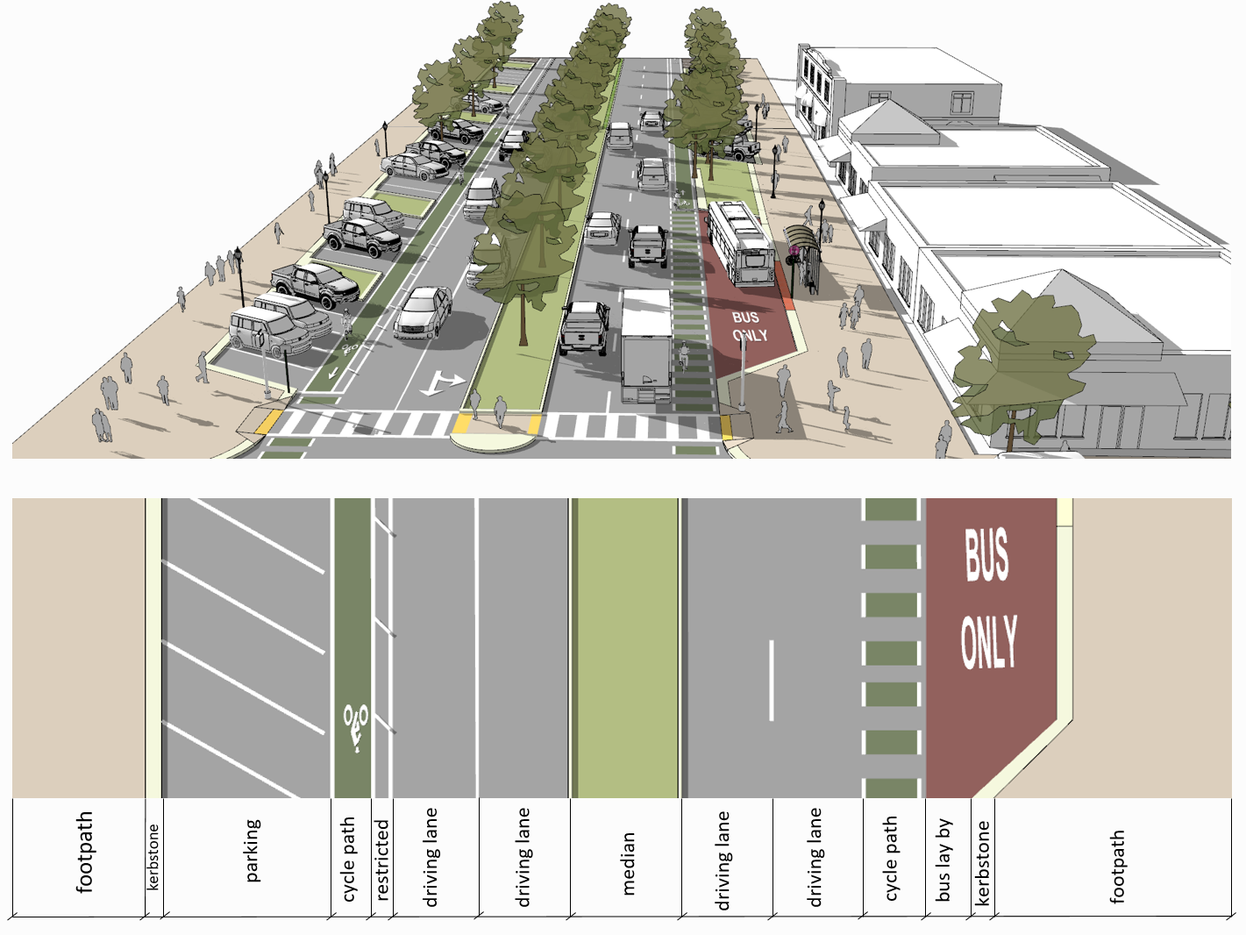
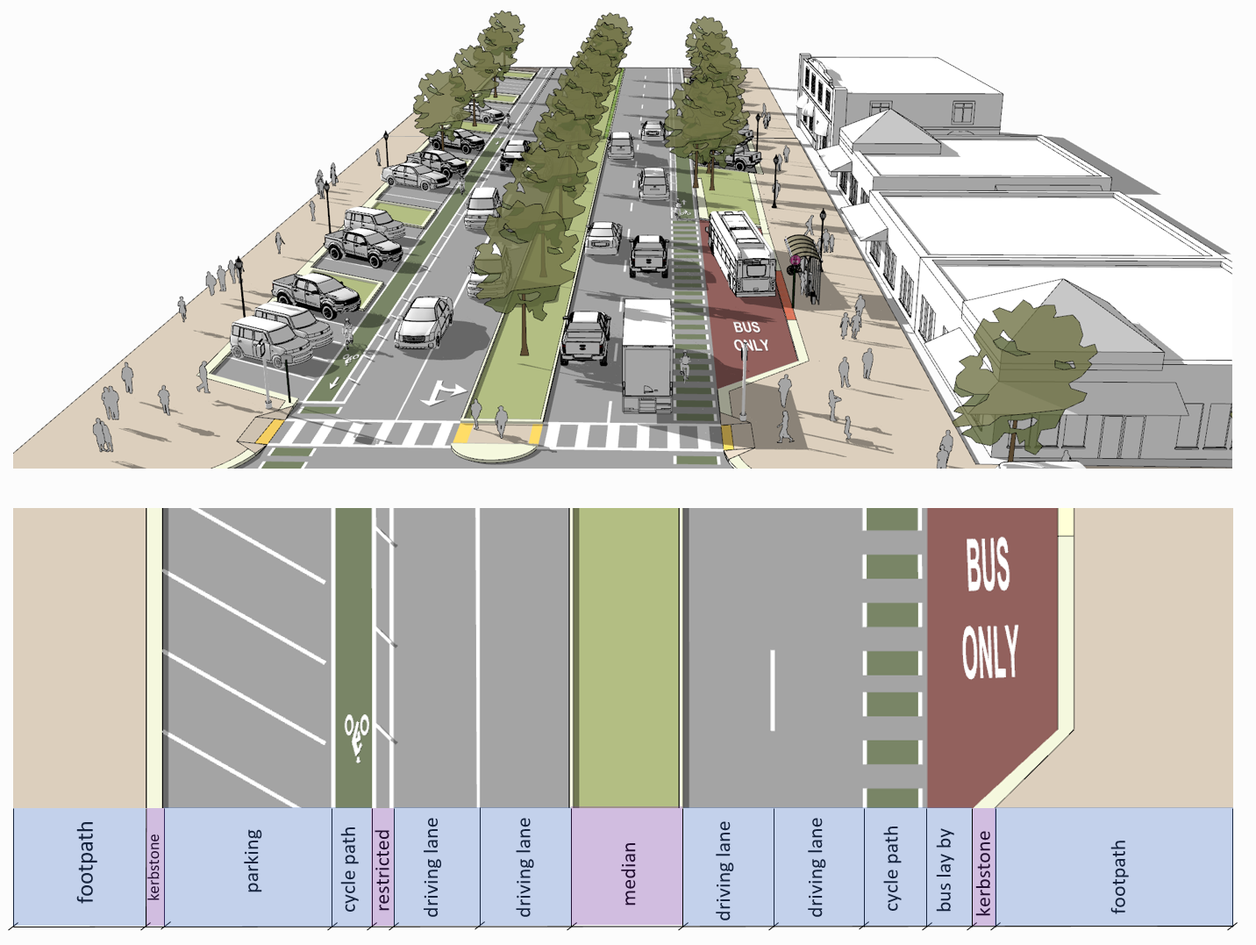
Deploying to gh-pages from @ tum-gis/road2citygml3@df8907f2ebff1a7bcd9f1d953b1b05b7b3e30a28 🚀

diff --git a/searchindex.js b/searchindex.js
@@ -1,1 +1,1 @@
-Search.setIndex({"docnames": ["contact and citation/contactandcitation", "guideline/guideline", "index"], "filenames": ["contact and citation/contactandcitation.rst", "guideline/guideline.rst", "index.rst"], "titles": ["<em class=\"fa fa-comments\"></em> Comment", "<span class=\"section-number\">1. </span>Introduction", "Road2CityGML3 - version 1.0"], "terms": {"do": [0, 1], "you": 0, "have": [0, 1], "suggest": 0, "improv": [0, 1], "thi": [0, 1], "document": [0, 1], "creat": [0, 1], "an": [0, 1], "issu": 0, "from": [0, 1], "correspond": [0, 1], "github": [0, 1], "repositori": [0, 1], "If": 0, "find": [0, 1], "help": 0, "your": 0, "work": [0, 1], "consid": [0, 1], "cite": 0, "follow": [0, 1], "manual": [0, 1], "beil_road2citygml3_2022": 0, "author": 0, "beil": [0, 1], "christof": 0, "kolb": [0, 1], "thoma": 0, "h": [0, 1], "titl": 0, "road2citygml3": 0, "url": 0, "http": [0, 1], "com": 0, "tum": 0, "gi": 0, "year": 0, "2022": 0, "The": [0, 2], "relat": [0, 2], "public": [0, 1], "explain": [0, 1], "concept": [0, 2], "citygml": [0, 2], "3": [0, 2], "0": 0, "transport": [0, 2], "modul": [0, 2], "articl": 0, "beil2020": 0, "ruhdorf": [0, 1], "roland": 0, "coduro": [0, 1], "theresa": 0, "detail": [0, 2], "streetspac": [0, 1, 2], "model": [0, 2], "multipl": [0, 2], "applic": [0, 1], "discuss": [0, 1], "propos": [0, 1], "journal": [0, 1], "ispr": [0, 1], "intern": [0, 1, 2], "geo": [0, 1], "inform": [0, 1], "2020": [0, 1], "volum": 0, "9": [0, 1], "number": [0, 1], "10": [0, 1], "page": [0, 1], "603": [0, 1], "doi": [0, 1], "org": [0, 1], "3390": [0, 1], "ijgi9100603": [0, 1], "question": 0, "organ": 0, "technic": 0, "univers": [0, 1], "munich": [0, 1], "chair": 0, "geoinformat": 0, "arcisstr": 0, "21": 0, "80333": 0, "email": 0, "de": 0, "citi": [1, 2], "geographi": [1, 2], "markup": [1, 2], "languag": [1, 2], "i": 1, "ogc": [1, 2], "standard": [1, 2], "exchang": 1, "virtual": 1, "landscap": 1, "1": 1, "2": 1, "ar": 1, "avail": 1, "countri": 1, "gather": 1, "method": 1, "mobil": 1, "map": 1, "emerg": 1, "urban": 1, "digit": 1, "twin": 1, "begin": 1, "shift": 1, "focu": 1, "toward": 1, "infrastructur": 1, "sever": 1, "new": 1, "york": 1, "melbourn": 1, "singapor": 1, "usual": 1, "arcgi": 1, "qgi": 1, "environ": 1, "howev": 1, "often": 1, "differ": 1, "common": 1, "framework": 1, "allow": 1, "immedi": 1, "same": 1, "tool": 1, "while": 1, "gdf": 1, "opendr": 1, "linear": 1, "graph": 1, "base": 1, "parametr": 1, "polygon": 1, "well": 1, "volumetr": 1, "explicit": 1, "geometri": 1, "consist": 1, "includ": 1, "furnitur": 1, "version": 1, "provid": 1, "revis": 1, "extend": 1, "present": 1, "context": 1, "conceptu": 1, "open": 1, "geospati": 1, "consortium": 1, "defin": 1, "central": 1, "element": 1, "traffic": 1, "appli": 1, "all": 1, "e": 1, "g": 1, "part": 1, "drive": 1, "lane": 1, "pedestrian": 1, "sidewalk": 1, "bike": 1, "etc": 1, "variou": 1, "point": 1, "cloud": 1, "given": 1, "surfac": 1, "us": [1, 2], "referenc": 1, "gml": 1, "encod": 1, "most": 1, "dataset": 1, "4": 1, "In": 1, "addit": 1, "some": 1, "record": 1, "can": 1, "seen": 1, "extens": 1, "user": 1, "guid": 1, "specif": 1, "municip": 1, "compani": 1, "agenc": 1, "stakehold": 1, "interest": 1, "plan": 1, "manag": 1, "automot": 1, "environment": 1, "simul": 1, "analys": 1, "topograph": 1, "list": 1, "kolbe2021": 1, "t": 1, "kutzner": 1, "smyth": 1, "c": 1, "": 1, "nagel": 1, "roensdorf": 1, "heazel": 1, "2021": 1, "20": 1, "010": 1, "doc": 1, "html": 1, "beil2020a": 1, "r": 1, "beil2020b": 1, "combin": 1, "its": 1, "implement": 1, "int": 1, "arch": 1, "photogramm": 1, "remot": 1, "sen": 1, "spat": 1, "inf": 1, "sci": 1, "vi": 1, "w1": 1, "29": 1, "36": 1, "5194": 1, "annal": 1, "kutzner2020": 1, "chaturvedi": 1, "k": 1, "up": 1, "pfg": 1, "photogrammetri": 1, "sens": 1, "geoinform": 1, "scienc": 1, "88": 1, "43": 1, "61": 1, "1007": 1, "s41064": 1, "020": 1, "00095": 1, "z": 1, "schwab2020": 1, "schwab": 1, "b": 1, "spatio": 1, "vehicl": 1, "test": 1, "autom": 1, "sustain": 1, "12": 1, "3799": 1, "su12093799": 1, "boersma2019": 1, "boersma": 1, "f": 1, "2019": 1, "master": 1, "thesi": 1, "delft": 1, "technologi": 1, "resolv": 1, "tudelft": 1, "nl": 1, "uuid": 1, "ebfc48f8": 1, "4704": 1, "47d3": 1, "9654": 1, "cd00c765e0af": 1, "tamminga2019": 1, "tamminga": 1, "A": 1, "novel": 1, "design": 1, "phd": 1, "4233": 1, "35d2e152": 1, "0cfe": 1, "439e": 1, "a276": 1, "da4a69b11acd": 1, "labetski2018": 1, "labetski": 1, "van": 1, "gerwen": 1, "ledoux": 1, "stoter": 1, "j": 1, "2018": 1, "xlii": 1, "w10": 1, "89": 1, "96": 1, "archiv": 1, "beil2017": 1, "2017": 1, "iv": 1, "w5": 1, "16": 1, "basic": 1, "real": 1, "world": 1, "sourc": 1, "convert": 1, "tr\u00e5n": 1, "read": 1, "network": 1, "format": 1, "transform": 1, "them": 1, "more": 1, "guidelin": [1, 2], "under": 1, "creativ": 1, "cc": 1, "BY": 1, "free": 1, "No": 1, "warranti": 1, "guarante": 1, "correct": 1, "complet": 1, "appropri": 1, "ani": 1, "case": 1, "held": 1, "liabl": 1, "damag": 1, "caus": 1, "directli": 1, "indirectli": 1, "softwar": 1, "sinc": 1, "here": 1, "ha": 1, "been": 1, "deriv": 1, "origin": 1, "term": 1, "condit": 1, "too": 1, "aerial": 1, "imageri": 1, "import": 1, "summar": 1, "For": 1, "explan": 1, "pleas": 1, "modular": 1, "uml": 1, "diagram": 1, "shown": 1, "figur": 1, "core": 1, "repres": 1, "geograph": 1, "featur": 1, "iso": 1, "19109": 1, "hierarch": 1, "like": 1, "subclass": 1, "higher": 1, "segment": 1, "which": 1, "further": 1, "again": 1, "bound": 1, "ground": 1, "clear": 1, "distinct": 1, "spatial": 1, "introduc": 1, "onto": 1, "entiti": 1, "extent": 1, "waterbodi": 1, "room": 1, "areal": 1, "delimit": 1, "connect": 1, "featuretyp": 1, "abstract": 1, "abstracttransportationspac": 1, "just": 1, "also": 1, "abov": 1, "respect": 1, "chapter": 1, "decomposit": 1, "area": 1, "entir": 1, "width": 1, "singl": 1, "per": 1, "mean": 1, "bicycl": 1, "path": 1, "bai": 1, "separ": 1, "These": 1, "extrud": 1, "centerlin": 1, "line": 1, "order": 1, "distinguish": 1, "uniqu": 1, "identifi": 1, "id": 1, "should": 1, "contain": 1, "name": 1, "thei": 1, "belong": 1, "achiev": 1, "implicitli": 1, "due": 1, "file": 1, "indic": 1, "materi": 1, "special": 1, "sig3d": 1, "transportationcomplex": 1, "transfer": 1, "tabl": 1, "explicitli": 1, "describ": 1, "footpath": 1, "cycl": 1, "mode": 1, "car": 1, "tram": 1, "citygml_usag": 1, "text": 1, "code": 1, "truck": 1, "bu": 1, "taxi": 1, "train": 1, "5": 1, "6": 1, "motorcycl": 1, "7": 1, "8": 1, "15": 1, "citygml_funct": 1, "driving_lan": 1, "cyclepath": 1, "foot": 1, "parking_lay_bi": 1, "rail": 1, "rail_road_combin": 1, "crosswalk": 1, "bus_lay_bi": 1, "32": 1, "33": 1, "emergency_lan": 1, "road_work": 1, "37": 1, "unknown": 1, "9999": 1, "shoulder": 1, "1010": 1, "green_area": 1, "1020": 1, "kerbston": 1, "1220": 1, "restrict": 1, "1240": 1, "traffic_island": 1, "1300": 1, "raised_median": 1, "1400": 1, "low": 1, "1500": 1, "border": 1, "1600": 1, "specifi": 1, "pavement": 1, "citygml_surfacemateri": 1, "asphalt": 1, "concret": 1, "cobbleston": 1, "gravel": 1, "soil": 1, "sand": 1, "grass": 1, "possibl": 1, "meter": 1, "depend": 1, "intend": 1, "rate": 1, "maximum": 1, "speed": 1, "properti": 1, "19107": 1, "dimension": 1, "make": 1, "kind": 1, "aggreg": 1, "multipoint": 1, "multicurv": 1, "multisurfac": 1, "multisolid": 1, "composit": 1, "compositecurv": 1, "compositesurfac": 1, "compositesolid": 1, "shape": 1, "so": 1, "call": 1, "rep": 1, "support": 1, "either": 1, "inlin": 1, "extern": 1, "la": 1, "laz": 1, "nearli": 1, "solid": 1, "valu": 1, "x": 1, "y": 1, "alwai": 1, "cr": 1, "unambigu": 1, "posit": 1, "earth": 1, "contrast": 1, "cad": 1, "bim": 1, "absolut": 1, "georeferenc": 1, "especi": 1, "suitabl": 1, "where": 1, "curvatur": 1, "signific": 1, "effect": 1, "horizont": 1, "typic": 1, "vertic": 1, "height": 1, "over": 1, "note": 1, "chosen": 1, "mai": 1, "angular": 1, "latitud": 1, "longitud": 1, "distanc": 1, "feet": 1, "19111": 1, "numer": 1, "global": 1, "nation": 1, "geocentr": 1, "geodet": 1, "project": 1, "differenti": 1, "consecut": 1, "simultan": 1, "longer": 1, "associ": 1, "degre": 1, "onli": 1, "maintain": 1, "abil": 1, "2d": 1, "breaklin": 1, "triangl": 1, "those": 1, "island": 1, "It": 1, "certain": 1, "amount": 1, "15m": 1, "about": 1, "rout": 1, "xml": 1, "topologi": 1, "share": 1, "themat": 1, "assign": 1, "href": 1, "link": 1, "non": 1, "redund": 1, "affili": 1, "advantag": 1, "ident": 1, "need": 1, "time": 1, "disadvantag": 1, "store": 1, "veri": 1, "far": 1, "apart": 1, "realis": 1, "between": 1, "equal": 1, "redundantli": 1, "observ": 1, "form": 1, "textur": 1, "color": 1, "synthet": 1, "imag": 1, "high": 1, "resolut": 1, "orthophoto": 1, "limit": 1, "visual": 1, "arbitrari": 1, "categori": 1, "theme": 1, "solar": 1, "irradi": 1, "heat": 1, "infrar": 1, "radiat": 1, "nois": 1, "pollut": 1, "might": 1, "necessari": 1, "offset": 1, "slightli": 1, "avoid": 1, "render": 1, "problem": 1, "fight": 1, "underli": 1, "left": 1, "result": 1, "right": 1, "illustr": 1, "ingolstadt": 1, "must": 1, "cover": 1, "adjac": 1, "disconnect": 1, "doe": 1, "logic": 1, "perform": 1, "long": 1, "uninterrupt": 1, "freewai": 1, "without": 1, "intermedi": 1, "show": 1, "highlight": 1, "purpl": 1, "yellow": 1, "green": 1, "decompos": 1, "thu": 1, "altern": 1, "next": 1, "clearli": 1, "corridor": 1, "surround": 1, "orang": 1, "mention": 1, "minim": 1, "prohibit": 1, "expand": 1, "blue": 1, "take": 1, "place": 1, "movement": 1, "ship": 1, "purpos": 1, "member": 1, "direct": 1, "forward": 1, "backward": 1, "both": 1, "occup": 1, "particular": 1, "option": 1, "germani": 1, "m": 1, "underneath": 1, "underpass": 1, "upon": 1, "actual": 1, "bicyclist": 1, "overlap": 1, "rather": 1, "move": 1, "contact": [1, 2], "obstruct": 1, "visibl": 1, "pattern": 1, "independ": 1, "depict": 1, "span": 1, "via": 1, "valid": 1, "dash": 1, "red": 1, "stop": 1, "arrow": 1, "zebra": 1, "citygml_class": 1, "road_mark": 1, "11": 1, "road_marking_direct": 1, "road_marking_lan": 1, "13": 1, "road_marking_restrict": 1, "14": 1, "road_marking_crosswalk": 1, "road_marking_stop": 1, "arrowright": 1, "121": 1, "arrowleft": 1, "122": 1, "arrowstraight": 1, "123": 1, "arrowstraightright": 1, "124": 1, "arrowstraightleft": 1, "125": 1, "road_marking_lane_broken": 1, "131": 1, "road_marking_lane_solid": 1, "132": 1, "symbol_bicycl": 1, "140": 1, "symbol_oth": 1, "150": 1, "individud": 1, "manhol": 1, "drain": 1, "holesurfac": 1, "mainli": 1, "unrestrict": 1, "plaza": 1, "seal": 1, "lot": 1, "ga": 1, "station": 1, "slot": 1, "bigger": 1, "first": 1, "Then": 1, "how": 1, "complex": 1, "scenario": 1, "cityobjectmemb": 1, "tran": 1, "uuid_little_lonsdale_street": 1, "little_lonsdale_street": 1, "uuid_20044": 1, "uuid_ts_id_4c95049": 1, "1b96": 1, "4a39": 1, "b678": 1, "29ce209cddb5": 1, "uuid_ta_0bd21839": 1, "0ced": 1, "4660": 1, "8c21": 1, "75dbf633ec7a": 1, "sqm": 1, "lod2multisurfac": 1, "srsname": 1, "epsg": 1, "32755": 1, "srsdimens": 1, "uuid_lygon_street": 1, "lygon_street": 1, "uuid_20522": 1, "uuid_ts_id_5c249b72": 1, "82c3": 1, "47ef": 1, "9be3": 1, "e3de6340c6cd": 1, "uuid_ta_72cc6ac7": 1, "caf4": 1, "439b": 1, "b08a": 1, "707c5dd3f506": 1, "uuid_ts_id_cdbf9131": 1, "027f": 1, "425f": 1, "a355": 1, "f605d04a4f84": 1, "uuid_ta_ae280a29": 1, "8d9a": 1, "49c0": 1, "bf74": 1, "ffea469290d6": 1, "uuid_queensberry_street": 1, "queensberry_street": 1, "uuid_22497": 1, "uuid_rathdowne_street": 1, "rathdowne_street": 1, "uuid_20554": 1, "uuid_20556": 1, "uuid_20555": 1, "uuid_22498": 1, "uuid_drummond_street": 1, "drummond_street": 1, "uuid_20544": 1, "uuid_20542": 1, "uuid_20543": 1, "benefici": 1, "divid": 1, "23": 1, "larger": 1, "anoth": 1, "25": 1, "26": 1, "wheel": 1, "coexist": 1, "sometim": 1, "roofsurfac": 1, "30": 1, "express": 1, "31": 1, "run": 1, "trough": 1, "reach": 1, "floor": 1, "cityobjectgroup": 1, "ford": 1, "roadsid": 1, "sign": 1, "light": 1, "compon": 1, "unreal": 1, "engin": 1, "piec": 1, "equip": 1, "instal": 1, "outdoor": 1, "signal": 1, "lamp": 1, "bench": 1, "trash": 1, "bin": 1, "rack": 1, "fountain": 1, "orient": 1, "azimuth": 1, "angl": 1, "prototyp": 1, "instanti": 1, "locat": 1, "implicit": 1, "simpl": 1, "pole": 1, "funrnitur": 1, "similar": 1, "solitari": 1, "tree": 1, "bush": 1, "fern": 1, "plant": 1, "speci": 1, "mixtur": 1, "forest": 1, "stepp": 1, "wet": 1, "meadow": 1, "trunk": 1, "diamet": 1, "crown": 1, "realist": 1, "afford": 1, "passag": 1, "anim": 1, "servic": 1, "obstacl": 1, "slope": 1, "enclos": 1, "length": 1, "underground": 1, "underwat": 1, "enabl": 1, "vari": 1, "sensor": 1, "induct": 1, "loop": 1, "inject": 1, "seri": 1, "variat": 1, "overrid": 1, "static": 1, "3dcitydb": 1, "web": 1, "client": 1, "front": 1, "explor": 1, "collect": 1, "tokyo": 1, "found": 1, "road": 2, "within": 2, "semant": 2, "3d": 2, "introduct": 2, "motiv": 2, "scope": 2, "target": 2, "group": 2, "refer": 2, "data": 2, "download": 2, "licenc": 2, "disclaim": 2, "gener": 2, "definit": 2, "space": 2, "boundari": 2, "three": 2, "level": 2, "granular": 2, "requir": 2, "recommend": 2, "attribut": 2, "codelist": 2, "geometr": 2, "represent": 2, "coordin": 2, "system": 2, "lod": 2, "adapt": 2, "terrain": 2, "subtl": 2, "structur": 2, "rais": 2, "median": 2, "topolog": 2, "predecessor": 2, "successor": 2, "xlink": 2, "cityobjectrel": 2, "appear": 2, "accord": 2, "section": 2, "intersect": 2, "trafficspac": 2, "auxiliarytrafficspac": 2, "trafficarea": 2, "auxiliarytrafficarea": 2, "clearanc": 2, "mark": 2, "hole": 2, "track": 2, "squar": 2, "exampl": 2, "individu": 2, "one": 2, "carriagewai": 2, "two": 2, "wai": 2, "four": 2, "small": 2, "roundabout": 2, "larg": 2, "side": 2, "street": 2, "dead": 2, "end": 2, "motorwai": 2, "entri": 2, "exit": 2, "integr": 2, "type": 2, "railwai": 2, "cross": 2, "tramwai": 2, "bridg": 2, "through": 2, "tunnel": 2, "build": 2, "park": 2, "garag": 2, "waterwai": 2, "other": 2, "relev": 2, "cityfurnitur": 2, "veget": 2, "dynam": 2, "interact": 2, "onlin": 2, "demo": 2, "comment": 2, "citat": 2}, "objects": {}, "objtypes": {}, "objnames": {}, "titleterms": {"comment": 0, "citat": 0, "contact": 0, "pleas": 0, "get": 0, "touch": 0, "introduct": 1, "motiv": 1, "scope": 1, "target": 1, "group": 1, "refer": 1, "data": 1, "download": 1, "licenc": 1, "disclaim": 1, "gener": 1, "concept": 1, "definit": 1, "The": 1, "citygml": 1, "3": 1, "0": [1, 2], "transport": 1, "modul": 1, "semant": 1, "model": 1, "space": 1, "boundari": 1, "three": 1, "level": 1, "granular": 1, "requir": 1, "recommend": 1, "attribut": 1, "codelist": 1, "trafficarea": 1, "usag": 1, "function": 1, "auxiliarytrafficarea": 1, "surfacemateri": 1, "geometr": 1, "represent": 1, "coordin": 1, "system": 1, "detail": 1, "lod": 1, "adapt": 1, "terrain": 1, "subtl": 1, "3d": 1, "structur": 1, "rais": 1, "median": 1, "topolog": 1, "predecessor": 1, "successor": 1, "relat": 1, "xlink": 1, "cityobjectrel": 1, "appear": 1, "road": 1, "accord": 1, "each": 1, "section": 1, "intersect": 1, "trafficspac": 1, "auxiliarytrafficspac": 1, "auxiliari": 1, "addition": 1, "clearanc": 1, "clearancespac": 1, "mark": 1, "class": 1, "hole": 1, "track": 1, "squar": 1, "exampl": 1, "individu": 1, "one": 1, "carriagewai": 1, "two": 1, "wai": 1, "four": 1, "small": 1, "roundabout": 1, "larg": 1, "side": 1, "street": 1, "dead": 1, "end": 1, "motorwai": 1, "entri": 1, "exit": 1, "integr": 1, "multipl": 1, "type": 1, "railwai": 1, "cross": 1, "tramwai": 1, "within": 1, "bridg": 1, "through": 1, "tunnel": 1, "build": 1, "park": 1, "garag": 1, "waterwai": 1, "other": 1, "relev": 1, "cityfurnitur": 1, "object": 1, "veget": 1, "dynam": 1, "interact": 1, "onlin": 1, "demo": 1, "road2citygml3": 2, "version": 2, "1": 2, "content": 2, "more": 2, "inform": 2}, "envversion": {"sphinx.domains.c": 2, "sphinx.domains.changeset": 1, "sphinx.domains.citation": 1, "sphinx.domains.cpp": 6, "sphinx.domains.index": 1, "sphinx.domains.javascript": 2, "sphinx.domains.math": 2, "sphinx.domains.python": 3, "sphinx.domains.rst": 2, "sphinx.domains.std": 2, "sphinx.ext.todo": 2, "sphinx": 56}})
+Search.setIndex({"docnames": ["contact and citation/contactandcitation", "guideline/guideline", "index"], "filenames": ["contact and citation/contactandcitation.rst", "guideline/guideline.rst", "index.rst"], "titles": ["<em class=\"fa fa-comments\"></em> Comment", "<span class=\"section-number\">1. </span>Introduction", "Road2CityGML3 - version 1.0"], "terms": {"do": [0, 1], "you": 0, "have": [0, 1], "suggest": 0, "improv": [0, 1], "thi": [0, 1], "document": [0, 1], "creat": [0, 1], "an": [0, 1], "issu": 0, "from": [0, 1], "correspond": [0, 1], "github": [0, 1], "repositori": [0, 1], "If": 0, "find": [0, 1], "help": 0, "your": 0, "work": [0, 1], "consid": [0, 1], "cite": 0, "follow": [0, 1], "manual": [0, 1], "beil_road2citygml3_2022": 0, "author": 0, "beil": [0, 1], "christof": 0, "kolb": [0, 1], "thoma": 0, "h": [0, 1], "titl": 0, "road2citygml3": 0, "url": 0, "http": [0, 1], "com": 0, "tum": 0, "gi": 0, "year": 0, "2022": 0, "The": [0, 2], "relat": [0, 2], "public": [0, 1], "explain": [0, 1], "concept": [0, 2], "citygml": [0, 2], "3": [0, 2], "0": 0, "transport": [0, 2], "modul": [0, 2], "articl": 0, "beil2020": 0, "ruhdorf": [0, 1], "roland": 0, "coduro": [0, 1], "theresa": 0, "detail": [0, 2], "streetspac": [0, 1, 2], "model": [0, 2], "multipl": [0, 2], "applic": [0, 1], "discuss": [0, 1], "propos": [0, 1], "journal": [0, 1], "ispr": [0, 1], "intern": [0, 1, 2], "geo": [0, 1], "inform": [0, 1], "2020": [0, 1], "volum": 0, "9": [0, 1], "number": [0, 1], "10": [0, 1], "page": [0, 1], "603": [0, 1], "doi": [0, 1], "org": [0, 1], "3390": [0, 1], "ijgi9100603": [0, 1], "question": 0, "organ": 0, "technic": 0, "univers": [0, 1], "munich": [0, 1], "chair": 0, "geoinformat": 0, "arcisstr": 0, "21": 0, "80333": 0, "email": 0, "de": 0, "citi": [1, 2], "geographi": [1, 2], "markup": [1, 2], "languag": [1, 2], "i": 1, "ogc": [1, 2], "standard": [1, 2], "exchang": 1, "virtual": 1, "landscap": 1, "1": 1, "2": 1, "ar": 1, "avail": 1, "countri": 1, "gather": 1, "method": 1, "mobil": 1, "map": 1, "emerg": 1, "urban": 1, "digit": 1, "twin": 1, "begin": 1, "shift": 1, "focu": 1, "toward": 1, "infrastructur": 1, "sever": 1, "new": 1, "york": 1, "melbourn": 1, "singapor": 1, "usual": 1, "arcgi": 1, "qgi": 1, "environ": 1, "howev": 1, "often": 1, "differ": 1, "common": 1, "framework": 1, "allow": 1, "immedi": 1, "same": 1, "tool": 1, "while": 1, "gdf": 1, "opendr": 1, "linear": 1, "graph": 1, "base": 1, "parametr": 1, "polygon": 1, "well": 1, "volumetr": 1, "explicit": 1, "geometri": 1, "consist": 1, "includ": 1, "furnitur": 1, "version": 1, "provid": 1, "revis": 1, "extend": 1, "present": 1, "context": 1, "conceptu": 1, "open": 1, "geospati": 1, "consortium": 1, "defin": 1, "central": 1, "element": 1, "traffic": 1, "appli": 1, "all": 1, "e": 1, "g": 1, "part": 1, "drive": 1, "lane": 1, "pedestrian": 1, "sidewalk": 1, "bike": 1, "etc": 1, "variou": 1, "point": 1, "cloud": 1, "given": 1, "surfac": 1, "us": [1, 2], "referenc": 1, "gml": 1, "encod": 1, "most": 1, "dataset": 1, "4": 1, "In": 1, "addit": 1, "some": 1, "record": 1, "can": 1, "seen": 1, "extens": 1, "user": 1, "guid": 1, "specif": 1, "municip": 1, "compani": 1, "agenc": 1, "stakehold": 1, "interest": 1, "plan": 1, "manag": 1, "automot": 1, "environment": 1, "simul": 1, "analys": 1, "topograph": 1, "list": 1, "kolbe2021": 1, "t": 1, "kutzner": 1, "smyth": 1, "c": 1, "": 1, "nagel": 1, "roensdorf": 1, "heazel": 1, "2021": 1, "20": 1, "010": 1, "doc": 1, "html": 1, "beil2020a": 1, "r": 1, "beil2020b": 1, "combin": 1, "its": 1, "implement": 1, "int": 1, "arch": 1, "photogramm": 1, "remot": 1, "sen": 1, "spat": 1, "inf": 1, "sci": 1, "vi": 1, "w1": 1, "29": 1, "36": 1, "5194": 1, "annal": 1, "kutzner2020": 1, "chaturvedi": 1, "k": 1, "up": 1, "pfg": 1, "photogrammetri": 1, "sens": 1, "geoinform": 1, "scienc": 1, "88": 1, "43": 1, "61": 1, "1007": 1, "s41064": 1, "020": 1, "00095": 1, "z": 1, "schwab2020": 1, "schwab": 1, "b": 1, "spatio": 1, "vehicl": 1, "test": 1, "autom": 1, "sustain": 1, "12": 1, "3799": 1, "su12093799": 1, "boersma2019": 1, "boersma": 1, "f": 1, "2019": 1, "master": 1, "thesi": 1, "delft": 1, "technologi": 1, "resolv": 1, "tudelft": 1, "nl": 1, "uuid": 1, "ebfc48f8": 1, "4704": 1, "47d3": 1, "9654": 1, "cd00c765e0af": 1, "tamminga2019": 1, "tamminga": 1, "A": 1, "novel": 1, "design": 1, "phd": 1, "4233": 1, "35d2e152": 1, "0cfe": 1, "439e": 1, "a276": 1, "da4a69b11acd": 1, "labetski2018": 1, "labetski": 1, "van": 1, "gerwen": 1, "ledoux": 1, "stoter": 1, "j": 1, "2018": 1, "xlii": 1, "w10": 1, "89": 1, "96": 1, "archiv": 1, "beil2017": 1, "2017": 1, "iv": 1, "w5": 1, "16": 1, "basic": 1, "real": 1, "world": 1, "sourc": 1, "convert": 1, "tr\u00e5n": 1, "read": 1, "network": 1, "format": 1, "transform": 1, "them": 1, "more": 1, "guidelin": [1, 2], "under": 1, "creativ": 1, "cc": 1, "BY": 1, "free": 1, "No": 1, "warranti": 1, "guarante": 1, "correct": 1, "complet": 1, "appropri": 1, "ani": 1, "case": 1, "held": 1, "liabl": 1, "damag": 1, "caus": 1, "directli": 1, "indirectli": 1, "softwar": 1, "sinc": 1, "here": 1, "ha": 1, "been": 1, "deriv": 1, "origin": 1, "term": 1, "condit": 1, "too": 1, "aerial": 1, "imageri": 1, "import": 1, "summar": 1, "For": 1, "explan": 1, "pleas": 1, "modular": 1, "uml": 1, "diagram": 1, "shown": 1, "figur": 1, "core": 1, "repres": 1, "geograph": 1, "featur": 1, "iso": 1, "19109": 1, "hierarch": 1, "like": 1, "subclass": 1, "higher": 1, "segment": 1, "which": 1, "further": 1, "again": 1, "bound": 1, "ground": 1, "clear": 1, "distinct": 1, "spatial": 1, "introduc": 1, "onto": 1, "entiti": 1, "extent": 1, "waterbodi": 1, "room": 1, "areal": 1, "delimit": 1, "connect": 1, "featuretyp": 1, "abstract": 1, "abstracttransportationspac": 1, "just": 1, "also": 1, "abov": 1, "respect": 1, "chapter": 1, "decomposit": 1, "area": 1, "entir": 1, "width": 1, "singl": 1, "per": 1, "mean": 1, "bicycl": 1, "path": 1, "bai": 1, "separ": 1, "These": 1, "extrud": 1, "centerlin": 1, "line": 1, "order": 1, "distinguish": 1, "uniqu": 1, "identifi": 1, "id": 1, "should": 1, "contain": 1, "name": 1, "thei": 1, "belong": 1, "achiev": 1, "implicitli": 1, "due": 1, "file": 1, "indic": 1, "materi": 1, "special": 1, "sig3d": 1, "transportationcomplex": 1, "transfer": 1, "tabl": 1, "explicitli": 1, "describ": 1, "footpath": 1, "cycl": 1, "mode": 1, "car": 1, "tram": 1, "citygml_usag": 1, "text": 1, "code": 1, "truck": 1, "bu": 1, "taxi": 1, "train": 1, "5": 1, "6": 1, "motorcycl": 1, "7": 1, "8": 1, "15": 1, "citygml_funct": 1, "driving_lan": 1, "cyclepath": 1, "foot": 1, "parking_lay_bi": 1, "rail": 1, "rail_road_combin": 1, "crosswalk": 1, "bus_lay_bi": 1, "32": 1, "33": 1, "emergency_lan": 1, "road_work": 1, "37": 1, "unknown": 1, "9999": 1, "shoulder": 1, "1010": 1, "green_area": 1, "1020": 1, "kerbston": 1, "1220": 1, "restrict": 1, "1240": 1, "traffic_island": 1, "1300": 1, "raised_median": 1, "1400": 1, "low": 1, "1500": 1, "border": 1, "1600": 1, "specifi": 1, "pavement": 1, "citygml_surfacemateri": 1, "asphalt": 1, "concret": 1, "cobbleston": 1, "gravel": 1, "soil": 1, "sand": 1, "grass": 1, "possibl": 1, "meter": 1, "depend": 1, "intend": 1, "rate": 1, "maximum": 1, "speed": 1, "properti": 1, "19107": 1, "dimension": 1, "make": 1, "kind": 1, "aggreg": 1, "multipoint": 1, "multicurv": 1, "multisurfac": 1, "multisolid": 1, "composit": 1, "compositecurv": 1, "compositesurfac": 1, "compositesolid": 1, "shape": 1, "so": 1, "call": 1, "rep": 1, "support": 1, "either": 1, "inlin": 1, "extern": 1, "la": 1, "laz": 1, "nearli": 1, "solid": 1, "valu": 1, "x": 1, "y": 1, "alwai": 1, "cr": 1, "unambigu": 1, "posit": 1, "earth": 1, "contrast": 1, "cad": 1, "bim": 1, "absolut": 1, "georeferenc": 1, "especi": 1, "suitabl": 1, "where": 1, "curvatur": 1, "signific": 1, "effect": 1, "horizont": 1, "typic": 1, "vertic": 1, "height": 1, "over": 1, "note": 1, "chosen": 1, "mai": 1, "angular": 1, "latitud": 1, "longitud": 1, "distanc": 1, "feet": 1, "19111": 1, "numer": 1, "global": 1, "nation": 1, "geocentr": 1, "geodet": 1, "project": 1, "differenti": 1, "consecut": 1, "simultan": 1, "longer": 1, "associ": 1, "degre": 1, "onli": 1, "maintain": 1, "abil": 1, "2d": 1, "breaklin": 1, "triangl": 1, "those": 1, "island": 1, "It": 1, "certain": 1, "amount": 1, "15m": 1, "about": 1, "rout": 1, "xml": 1, "topologi": 1, "share": 1, "themat": 1, "assign": 1, "href": 1, "link": 1, "non": 1, "redund": 1, "affili": 1, "advantag": 1, "ident": 1, "need": 1, "time": 1, "disadvantag": 1, "store": 1, "veri": 1, "far": 1, "apart": 1, "realis": 1, "between": 1, "equal": 1, "redundantli": 1, "observ": 1, "form": 1, "textur": 1, "color": 1, "synthet": 1, "imag": 1, "high": 1, "resolut": 1, "orthophoto": 1, "limit": 1, "visual": 1, "arbitrari": 1, "categori": 1, "theme": 1, "solar": 1, "irradi": 1, "heat": 1, "infrar": 1, "radiat": 1, "nois": 1, "pollut": 1, "might": 1, "necessari": 1, "offset": 1, "slightli": 1, "avoid": 1, "render": 1, "problem": 1, "fight": 1, "underli": 1, "left": 1, "result": 1, "right": 1, "illustr": 1, "ingolstadt": 1, "must": 1, "cover": 1, "adjac": 1, "disconnect": 1, "doe": 1, "logic": 1, "perform": 1, "long": 1, "uninterrupt": 1, "freewai": 1, "without": 1, "intermedi": 1, "show": 1, "highlight": 1, "purpl": 1, "yellow": 1, "green": 1, "decompos": 1, "thu": 1, "altern": 1, "next": 1, "clearli": 1, "corridor": 1, "surround": 1, "orang": 1, "mention": 1, "minim": 1, "prohibit": 1, "expand": 1, "blue": 1, "take": 1, "place": 1, "movement": 1, "ship": 1, "purpos": 1, "member": 1, "direct": 1, "forward": 1, "backward": 1, "both": 1, "occup": 1, "particular": 1, "option": 1, "germani": 1, "m": 1, "underneath": 1, "underpass": 1, "upon": 1, "actual": 1, "bicyclist": 1, "overlap": 1, "rather": 1, "move": 1, "contact": [1, 2], "obstruct": 1, "visibl": 1, "pattern": 1, "independ": 1, "depict": 1, "span": 1, "via": 1, "valid": 1, "dash": 1, "red": 1, "stop": 1, "arrow": 1, "zebra": 1, "citygml_class": 1, "road_mark": 1, "11": 1, "road_marking_direct": 1, "road_marking_lan": 1, "13": 1, "road_marking_restrict": 1, "14": 1, "road_marking_crosswalk": 1, "road_marking_stop": 1, "arrowright": 1, "121": 1, "arrowleft": 1, "122": 1, "arrowstraight": 1, "123": 1, "arrowstraightright": 1, "124": 1, "arrowstraightleft": 1, "125": 1, "road_marking_lane_broken": 1, "131": 1, "road_marking_lane_solid": 1, "132": 1, "symbol_bicycl": 1, "140": 1, "symbol_oth": 1, "150": 1, "individud": 1, "manhol": 1, "drain": 1, "holesurfac": 1, "mainli": 1, "unrestrict": 1, "plaza": 1, "seal": 1, "lot": 1, "ga": 1, "station": 1, "slot": 1, "bigger": 1, "first": 1, "Then": 1, "how": 1, "complex": 1, "scenario": 1, "cityobjectmemb": 1, "tran": 1, "uuid_little_lonsdale_street": 1, "little_lonsdale_street": 1, "uuid_20044": 1, "uuid_ts_id_4c95049": 1, "1b96": 1, "4a39": 1, "b678": 1, "29ce209cddb5": 1, "uuid_ta_0bd21839": 1, "0ced": 1, "4660": 1, "8c21": 1, "75dbf633ec7a": 1, "sqm": 1, "lod2multisurfac": 1, "srsname": 1, "epsg": 1, "32755": 1, "srsdimens": 1, "uuid_lygon_street": 1, "lygon_street": 1, "uuid_20522": 1, "uuid_ts_id_5c249b72": 1, "82c3": 1, "47ef": 1, "9be3": 1, "e3de6340c6cd": 1, "uuid_ta_72cc6ac7": 1, "caf4": 1, "439b": 1, "b08a": 1, "707c5dd3f506": 1, "uuid_ts_id_cdbf9131": 1, "027f": 1, "425f": 1, "a355": 1, "f605d04a4f84": 1, "uuid_ta_ae280a29": 1, "8d9a": 1, "49c0": 1, "bf74": 1, "ffea469290d6": 1, "uuid_queensberry_street": 1, "queensberry_street": 1, "uuid_22497": 1, "uuid_rathdowne_street": 1, "rathdowne_street": 1, "uuid_20554": 1, "uuid_20556": 1, "uuid_20555": 1, "uuid_22498": 1, "uuid_drummond_street": 1, "drummond_street": 1, "uuid_20544": 1, "uuid_20542": 1, "uuid_20543": 1, "benefici": 1, "divid": 1, "23": 1, "larger": 1, "anoth": 1, "25": 1, "26": 1, "wheel": 1, "coexist": 1, "sometim": 1, "roofsurfac": 1, "30": 1, "express": 1, "31": 1, "run": 1, "trough": 1, "reach": 1, "floor": 1, "cityobjectgroup": 1, "ford": 1, "roadsid": 1, "sign": 1, "light": 1, "compon": 1, "unreal": 1, "engin": 1, "piec": 1, "equip": 1, "instal": 1, "outdoor": 1, "signal": 1, "lamp": 1, "bench": 1, "trash": 1, "bin": 1, "rack": 1, "fountain": 1, "pole": 1, "orient": 1, "azimuth": 1, "angl": 1, "prototyp": 1, "instanti": 1, "locat": 1, "implicit": 1, "simpl": 1, "mani": 1, "top": 1, "bottom": 1, "similar": 1, "solitari": 1, "tree": 1, "bush": 1, "fern": 1, "plant": 1, "speci": 1, "mixtur": 1, "forest": 1, "stepp": 1, "wet": 1, "meadow": 1, "trunk": 1, "diamet": 1, "crown": 1, "realist": 1, "afford": 1, "passag": 1, "anim": 1, "servic": 1, "obstacl": 1, "slope": 1, "enclos": 1, "length": 1, "underground": 1, "underwat": 1, "enabl": 1, "vari": 1, "sensor": 1, "induct": 1, "loop": 1, "inject": 1, "seri": 1, "variat": 1, "overrid": 1, "static": 1, "3dcitydb": 1, "web": 1, "client": 1, "front": 1, "explor": 1, "collect": 1, "tokyo": 1, "found": 1, "road": 2, "within": 2, "semant": 2, "3d": 2, "introduct": 2, "motiv": 2, "scope": 2, "target": 2, "group": 2, "refer": 2, "data": 2, "download": 2, "licenc": 2, "disclaim": 2, "gener": 2, "definit": 2, "space": 2, "boundari": 2, "three": 2, "level": 2, "granular": 2, "requir": 2, "recommend": 2, "attribut": 2, "codelist": 2, "geometr": 2, "represent": 2, "coordin": 2, "system": 2, "lod": 2, "adapt": 2, "terrain": 2, "subtl": 2, "structur": 2, "rais": 2, "median": 2, "topolog": 2, "predecessor": 2, "successor": 2, "xlink": 2, "cityobjectrel": 2, "appear": 2, "accord": 2, "section": 2, "intersect": 2, "trafficspac": 2, "auxiliarytrafficspac": 2, "trafficarea": 2, "auxiliarytrafficarea": 2, "clearanc": 2, "mark": 2, "hole": 2, "track": 2, "squar": 2, "exampl": 2, "individu": 2, "one": 2, "carriagewai": 2, "two": 2, "wai": 2, "four": 2, "small": 2, "roundabout": 2, "larg": 2, "side": 2, "street": 2, "dead": 2, "end": 2, "motorwai": 2, "entri": 2, "exit": 2, "integr": 2, "type": 2, "railwai": 2, "cross": 2, "tramwai": 2, "bridg": 2, "through": 2, "tunnel": 2, "build": 2, "park": 2, "garag": 2, "waterwai": 2, "other": 2, "relev": 2, "cityfurnitur": 2, "veget": 2, "dynam": 2, "interact": 2, "onlin": 2, "demo": 2, "comment": 2, "citat": 2}, "objects": {}, "objtypes": {}, "objnames": {}, "titleterms": {"comment": 0, "citat": 0, "contact": 0, "pleas": 0, "get": 0, "touch": 0, "introduct": 1, "motiv": 1, "scope": 1, "target": 1, "group": 1, "refer": 1, "data": 1, "download": 1, "licenc": 1, "disclaim": 1, "gener": 1, "concept": 1, "definit": 1, "The": 1, "citygml": 1, "3": 1, "0": [1, 2], "transport": 1, "modul": 1, "semant": 1, "model": 1, "space": 1, "boundari": 1, "three": 1, "level": 1, "granular": 1, "requir": 1, "recommend": 1, "attribut": 1, "codelist": 1, "trafficarea": 1, "usag": 1, "function": 1, "auxiliarytrafficarea": 1, "surfacemateri": 1, "geometr": 1, "represent": 1, "coordin": 1, "system": 1, "detail": 1, "lod": 1, "adapt": 1, "terrain": 1, "subtl": 1, "3d": 1, "structur": 1, "rais": 1, "median": 1, "topolog": 1, "predecessor": 1, "successor": 1, "relat": 1, "xlink": 1, "cityobjectrel": 1, "appear": 1, "road": 1, "accord": 1, "each": 1, "section": 1, "intersect": 1, "trafficspac": 1, "auxiliarytrafficspac": 1, "auxiliari": 1, "addition": 1, "clearanc": 1, "clearancespac": 1, "mark": 1, "class": 1, "hole": 1, "track": 1, "squar": 1, "exampl": 1, "individu": 1, "one": 1, "carriagewai": 1, "two": 1, "wai": 1, "four": 1, "small": 1, "roundabout": 1, "larg": 1, "side": 1, "street": 1, "dead": 1, "end": 1, "motorwai": 1, "entri": 1, "exit": 1, "integr": 1, "multipl": 1, "type": 1, "railwai": 1, "cross": 1, "tramwai": 1, "within": 1, "bridg": 1, "through": 1, "tunnel": 1, "build": 1, "park": 1, "garag": 1, "waterwai": 1, "other": 1, "relev": 1, "cityfurnitur": 1, "object": 1, "veget": 1, "dynam": 1, "interact": 1, "onlin": 1, "demo": 1, "road2citygml3": 2, "version": 2, "1": 2, "content": 2, "more": 2, "inform": 2}, "envversion": {"sphinx.domains.c": 2, "sphinx.domains.changeset": 1, "sphinx.domains.citation": 1, "sphinx.domains.cpp": 6, "sphinx.domains.index": 1, "sphinx.domains.javascript": 2, "sphinx.domains.math": 2, "sphinx.domains.python": 3, "sphinx.domains.rst": 2, "sphinx.domains.std": 2, "sphinx.ext.todo": 2, "sphinx": 56}})

diff --git a/guideline/guideline.html b/guideline/guideline.html
@@ -800,19 +800,19 @@
 <figure class="align-center" id="fig-section-examples1">
 <span id="fig-sections1"></span><img alt="../_images/trafficareas_onecarriageway.PNG" src="../_images/trafficareas_onecarriageway.PNG" />
 <figcaption>
-<p><span class="caption-number">Figure 10 </span><span class="caption-text"><em>Section</em> with one carriageway decomposed into individual <em>(Auxiliary)TrafficAreas</em>.</span><a class="headerlink" href="#fig-section-examples1" title="Permalink to this image"></a></p>
+<p><span class="caption-number">Figure 10 </span><span class="caption-text"><em>Section</em> with one carriageway decomposed into individual <em>TrafficAreas</em> (blue) and <em>AuxiliaryTrafficAreas</em> (purple).</span><a class="headerlink" href="#fig-section-examples1" title="Permalink to this image"></a></p>
 </figcaption>
 </figure>
 <figure class="align-center" id="fig-section-examples2">
 <span id="fig-sections2"></span><img alt="../_images/trafficareas_twocarriageway.PNG" src="../_images/trafficareas_twocarriageway.PNG" />
 <figcaption>
-<p><span class="caption-number">Figure 11 </span><span class="caption-text"><em>Section</em> with two carriageways decomposed into individual <em>(Auxiliary)TrafficAreas</em>.</span><a class="headerlink" href="#fig-section-examples2" title="Permalink to this image"></a></p>
+<p><span class="caption-number">Figure 11 </span><span class="caption-text"><em>Section</em> with two carriageways decomposed into individual <em>TrafficAreas</em> (blue) and <em>AuxiliaryTrafficAreas</em> (purple).</span><a class="headerlink" href="#fig-section-examples2" title="Permalink to this image"></a></p>
 </figcaption>
 </figure>
 <figure class="align-center" id="fig-section-examples3">
 <span id="fig-sections3"></span><img alt="../_images/buslayby.PNG" src="../_images/buslayby.PNG" />
 <figcaption>
-<p><span class="caption-number">Figure 12 </span><span class="caption-text"><em>Section</em> with two carriageways decomposed into individual <em>(Auxiliary)TrafficAreas</em> including parking and bus lanes.</span><a class="headerlink" href="#fig-section-examples3" title="Permalink to this image"></a></p>
+<p><span class="caption-number">Figure 12 </span><span class="caption-text"><em>Section</em> with two carriageways decomposed into individual <em>TrafficAreas</em> (blue) including parking and bus lanes and <em>AuxiliaryTrafficAreas</em> (purple).</span><a class="headerlink" href="#fig-section-examples3" title="Permalink to this image"></a></p>
 </figcaption>
 </figure>
 </section>
@@ -1400,24 +1400,27 @@
 <ul class="simple">
 <li><p><strong>must</strong> contain a unique <em>gml:id</em> attribute.</p></li>
 <li><p><strong>should</strong> be modelled per single object.</p></li>
-<li><p><strong>should</strong> contain relevant information such as 2D coordinates, height information (absolute or above the ground), orientation (e.g. azimuth angle) and sign or light type (as citygml class attribute).</p></li>
+<li><p><strong>should</strong> contain a <em>function</em> attribute according to the CityGML codelist.</p></li>
+<li><p><strong>should</strong> contain a <em>class</em> attribute (e.g. to indicate sign, light or pole type)</p></li>
+<li><p><strong>should</strong> contain relevant information such as 2D coordinates, height information (absolute or above the ground) and orientation (e.g. azimuth angle).</p></li>
 <li><p><strong>can</strong> use <em>CityObjectRelations</em> to indicate validity of a certain traffic sign or light for a specific lane.</p></li>
 </ul>
 </div>
 <ul class="simple">
 <li><p>These objects are usually represented with prototypes, which are instantiated multiple times at different locations (implicit geometries). However, it is also possible to model these objects using a simple point representation.</p></li>
 <li><p>Multiple logically connected objects (such as all signs and traffic lights connected to one pole) can be part of a <em>CityObjectGroup</em>.</p></li>
+<li><p>Many countries use standardized codes to identify different types of traffic signs (e.g. <a class="reference external" href="https://en.wikipedia.org/wiki/Road_signs_in_Germany">Germany</a>). It is recommended to use these codes as <em>class</em> attributes with each traffic sign object.</p></li>
 </ul>
 <figure class="align-center" id="fig-cityfurniture1">
 <img alt="../_images/trafficsigns.PNG" src="../_images/trafficsigns.PNG" />
 <figcaption>
-<p><span class="caption-number">Figure 37 </span><span class="caption-text">Traffic signs and corresponding poles modelled as individual CityFurniture objects.</span><a class="headerlink" href="#fig-cityfurniture1" title="Permalink to this image"></a></p>
+<p><span class="caption-number">Figure 37 </span><span class="caption-text">Traffic signs (top) and traffic lights (bottom) and corresponding poles modelled as individual CityFurniture objects.</span><a class="headerlink" href="#fig-cityfurniture1" title="Permalink to this image"></a></p>
 </figcaption>
 </figure>
 <figure class="align-center" id="fig-cityfurniture2">
 <img alt="../_images/busstop.PNG" src="../_images/busstop.PNG" />
 <figcaption>
-<p><span class="caption-number">Figure 38 </span><span class="caption-text">Bus stop and other city funrniture objects with corresponding function attributes.</span><a class="headerlink" href="#fig-cityfurniture2" title="Permalink to this image"></a></p>
+<p><span class="caption-number">Figure 38 </span><span class="caption-text">Bus stop and other city furniture objects with corresponding function attributes.</span><a class="headerlink" href="#fig-cityfurniture2" title="Permalink to this image"></a></p>
 </figcaption>
 </figure>
 </section>
